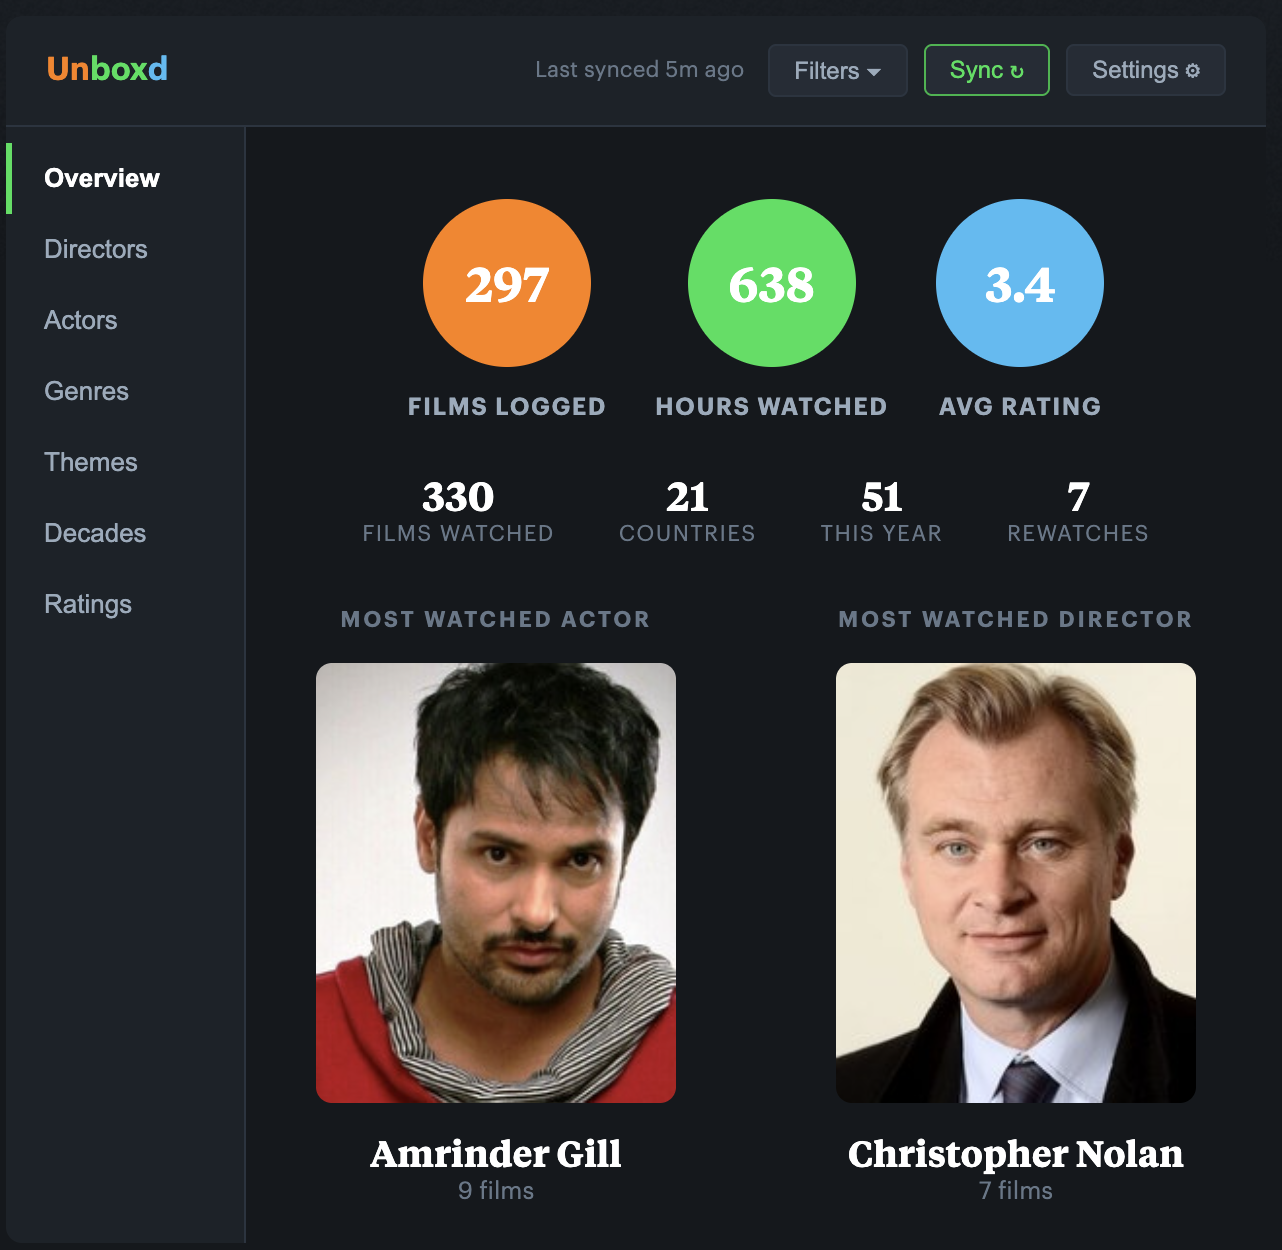
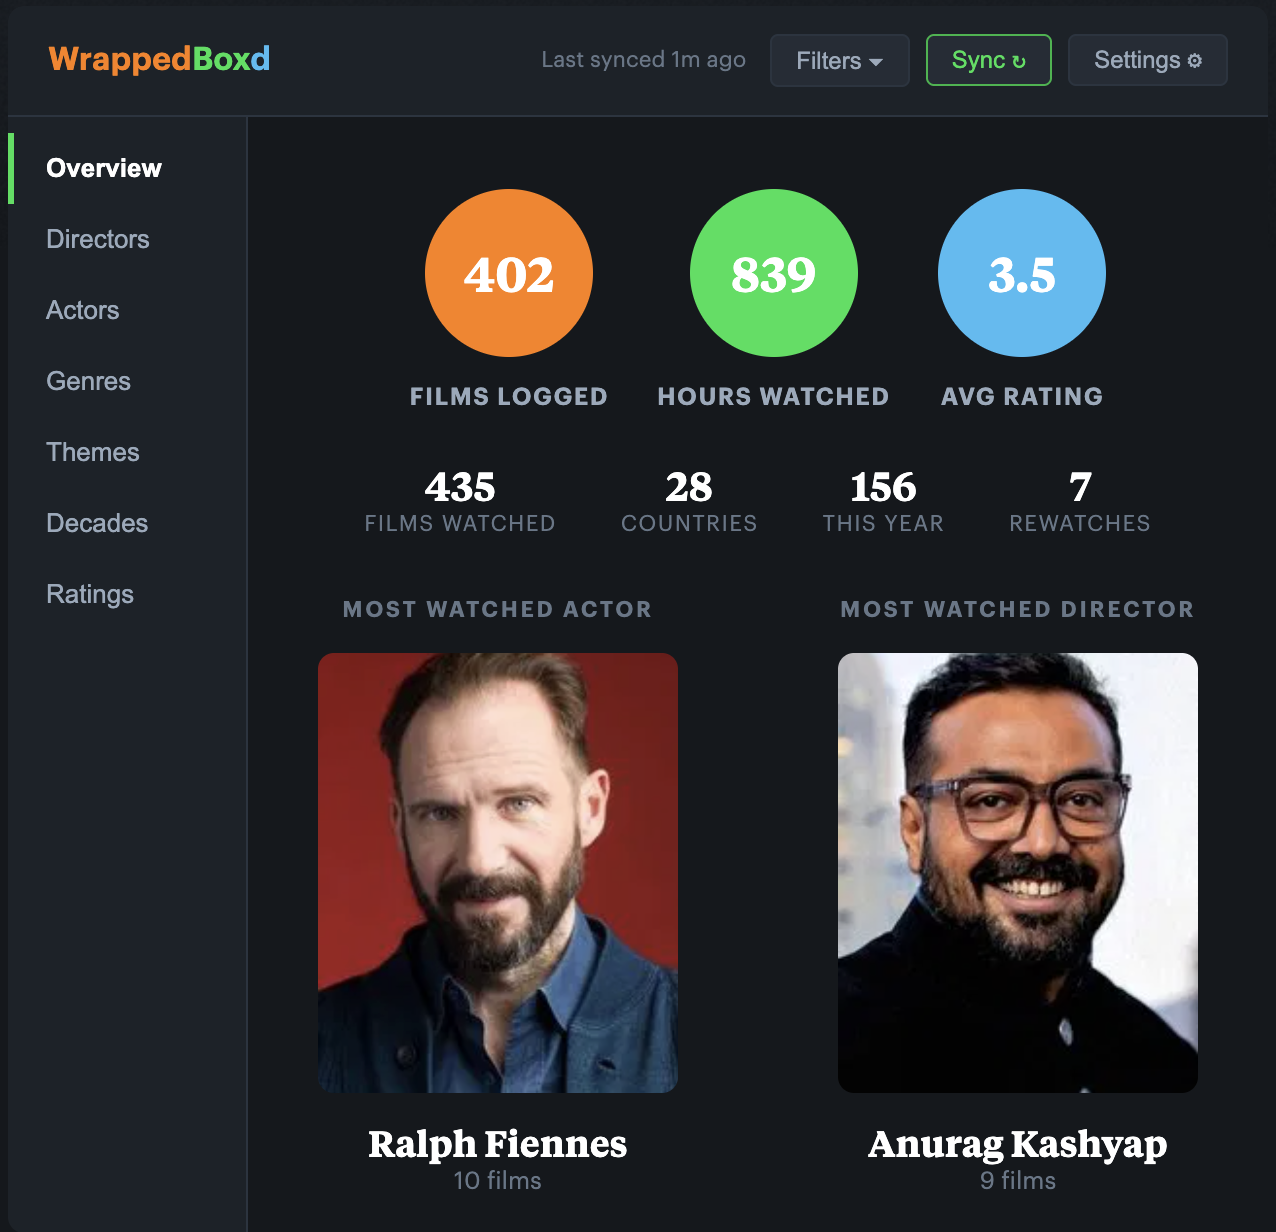
feat: update branding to WrappedBoxd in panel.js and replace assets

diff --git a/src/content/panel.js b/src/content/panel.js
@@ -1005,7 +1005,7 @@ export function injectPanel() {
 export function renderLoadingState(panel) {
   panel.innerHTML = `
     <div class="lbs-header">
-      <div class="lbs-header-title"><span style="color:var(--lbs-orange)">Un</span><span style="color:var(--lbs-green)">box</span><span style="color:#40bcf4">d</span></div>
+      <div class="lbs-header-title"><span style="color:var(--lbs-orange)">Wrapped</span><span style="color:var(--lbs-green)">Box</span><span style="color:#40bcf4">d</span></div>
       <div class="lbs-sync-info">Loading...</div>
     </div>
     <div class="lbs-body">
@@ -1025,7 +1025,7 @@ export function renderLoadingState(panel) {
 export function renderErrorState(panel, message) {
   panel.innerHTML = `
     <div class="lbs-header">
-      <div class="lbs-header-title"><span style="color:var(--lbs-orange)">Un</span><span style="color:var(--lbs-green)">box</span><span style="color:#40bcf4">d</span></div>
+      <div class="lbs-header-title"><span style="color:var(--lbs-orange)">Wrapped</span><span style="color:var(--lbs-green)">Box</span><span style="color:#40bcf4">d</span></div>
     </div>
     <div class="lbs-body">
       <div class="lbs-section">
@@ -1086,7 +1086,7 @@ function mergeFilmsIntoMap(films, map) {
 export function renderOnboarding(panel, { onEnrich }) {
   panel.innerHTML = `
     <div class="lbs-header">
-      <div class="lbs-header-title"><span style="color:var(--lbs-orange)">Wrapped</span><span style="color:var(--lbs-green)">Boxd</span></div>
+      <div class="lbs-header-title"><span style="color:var(--lbs-orange)">Wrapped</span><span style="color:var(--lbs-green)">Box</span><span style="color:#40bcf4">d</span></div>
     </div>
     <div class="lbs-onboarding">
       <h2>Welcome to WrappedBoxd</h2>
@@ -1427,7 +1427,7 @@ export function renderFullPanel(panel, allFilms, allDiaryEntries, isOwnProfile, 
 
     panel.innerHTML = `
       <div class="lbs-header">
-        <div class="lbs-header-title"><span style="color:var(--lbs-orange)">Un</span><span style="color:var(--lbs-green)">box</span><span style="color:#40bcf4">d</span></div>
+        <div class="lbs-header-title"><span style="color:var(--lbs-orange)">Wrapped</span><span style="color:var(--lbs-green)">Box</span><span style="color:#40bcf4">d</span></div>
         <div class="lbs-sync-info">Last synced ${syncTime}</div>
         <div class="lbs-header-actions">
           ${isOwnProfile ? `
